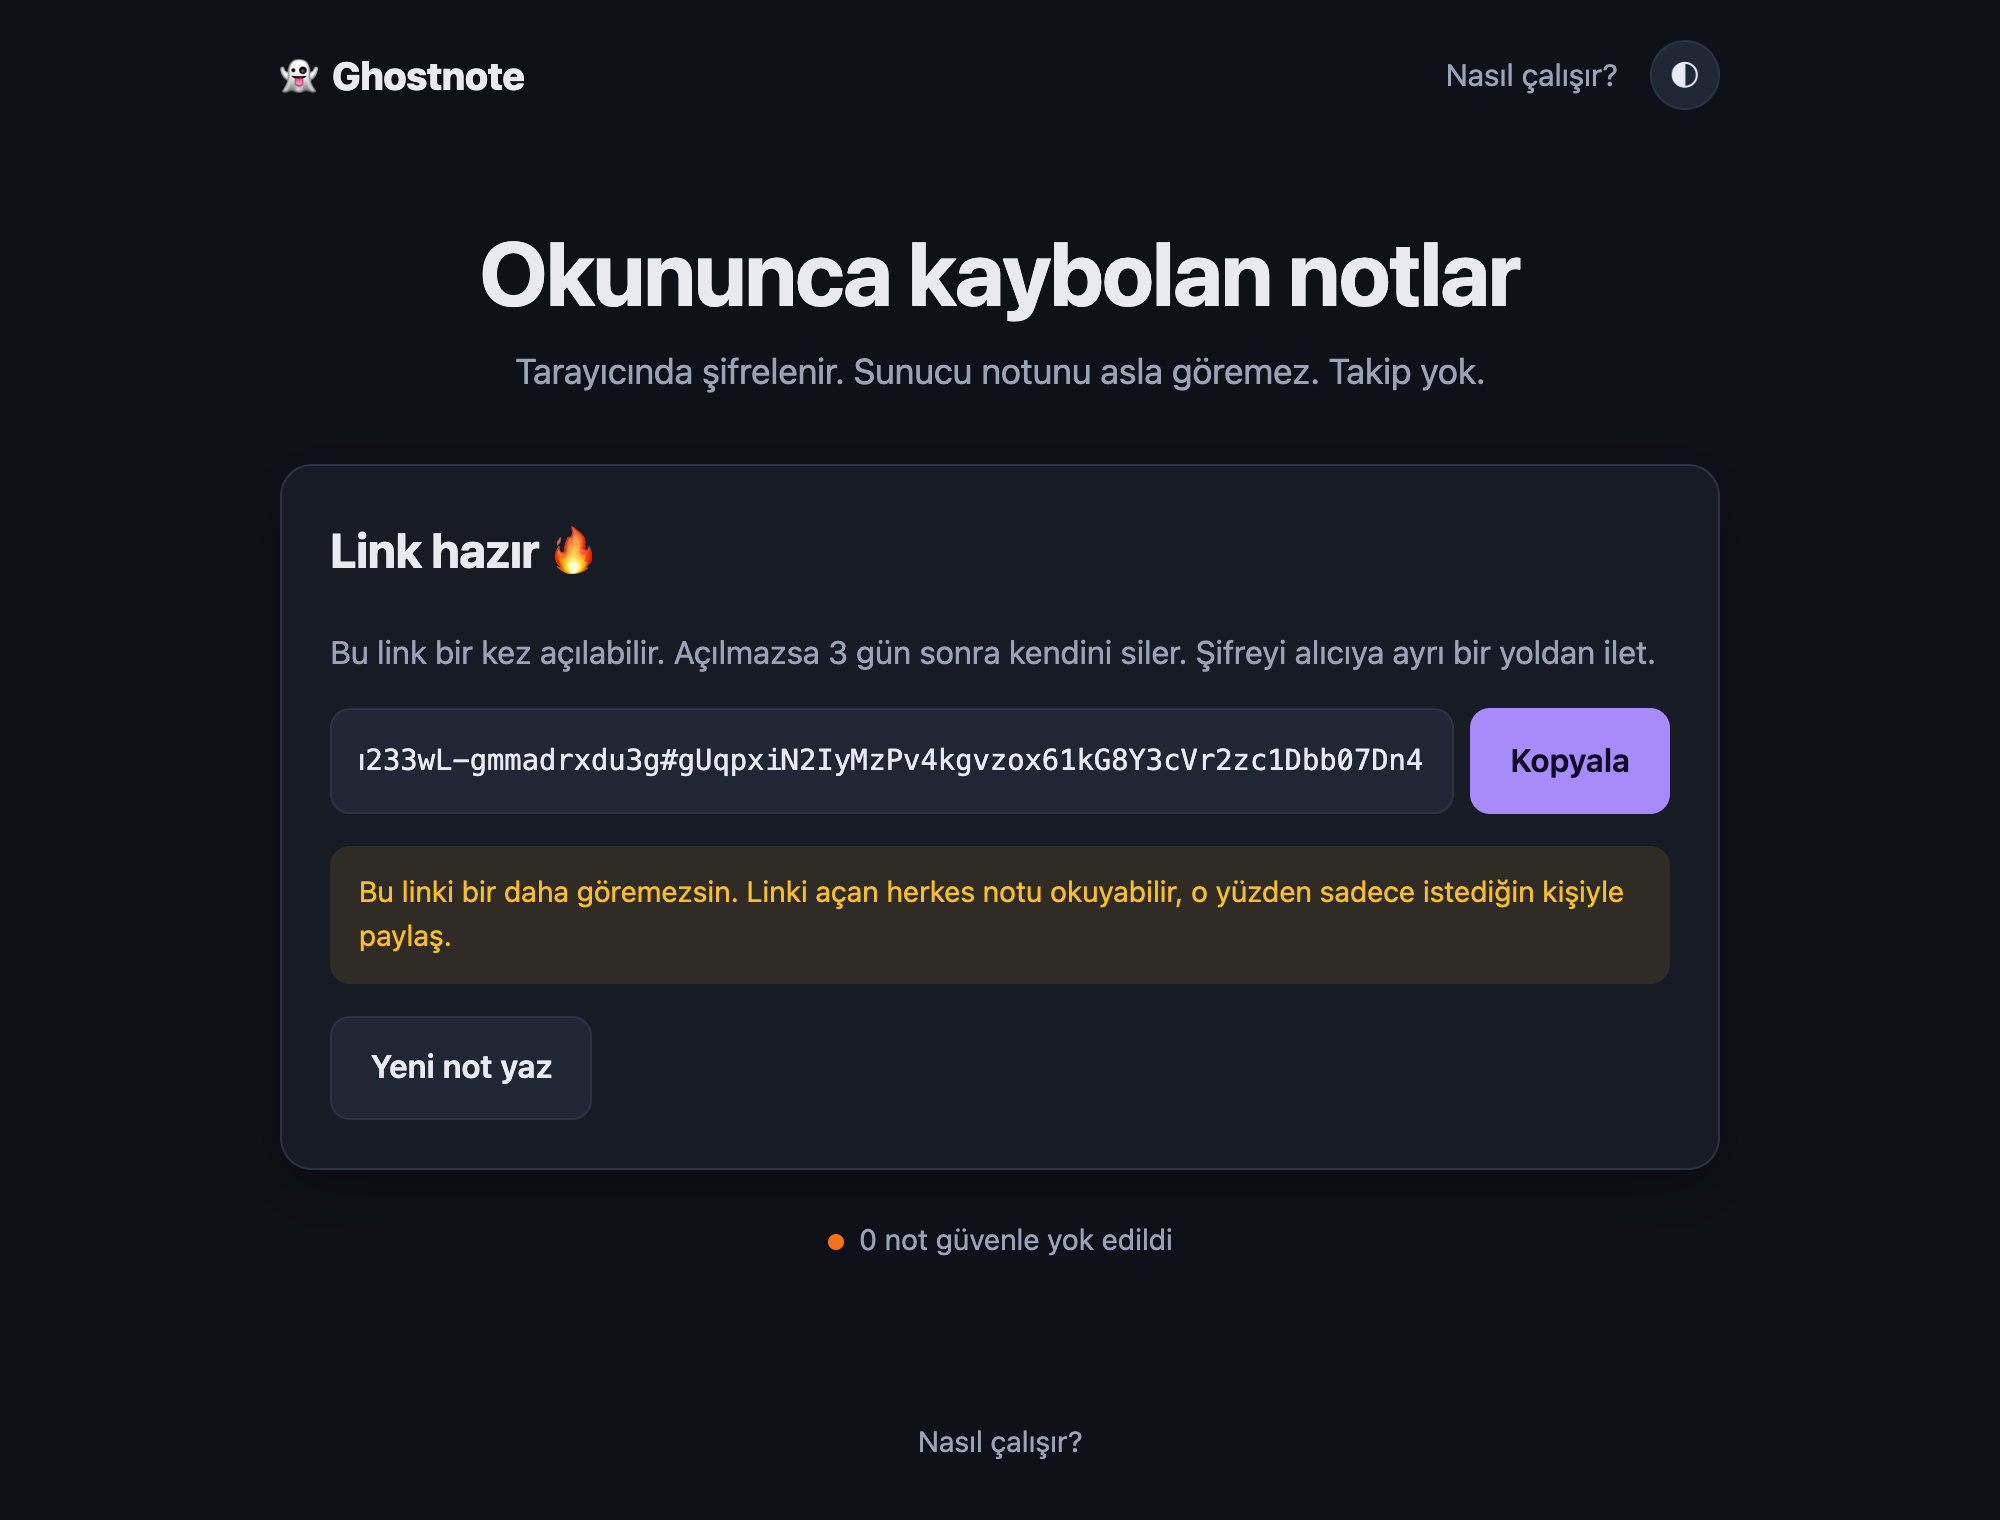
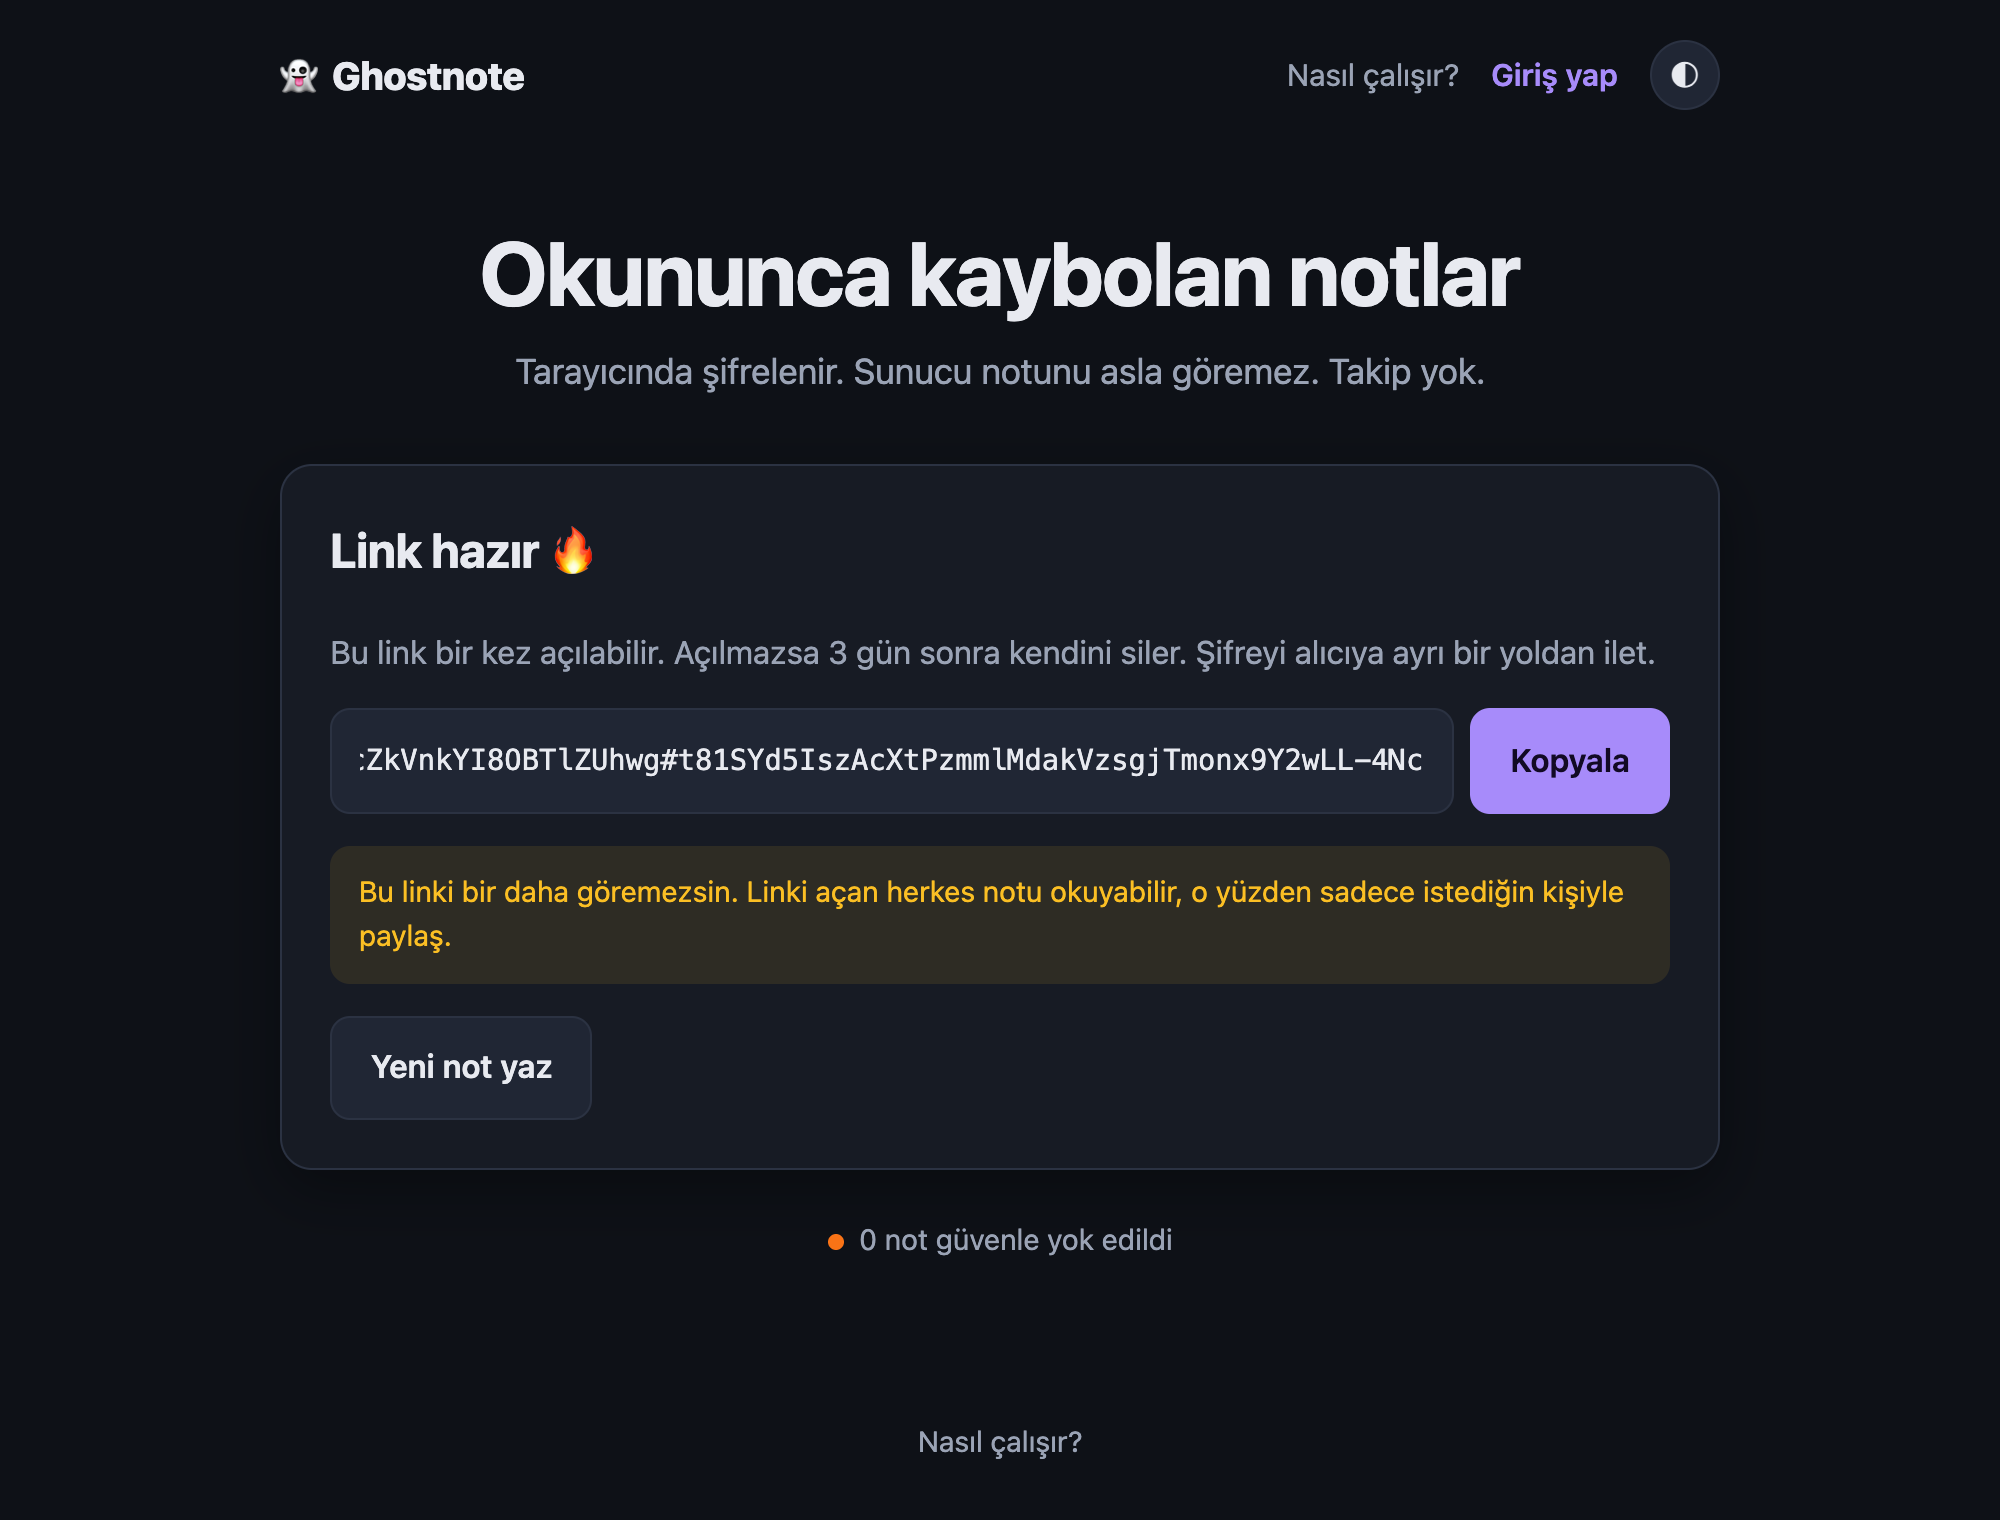
Add account screenshots to the README
Retake all screenshots so the header shows the new login link, and add
sign up, my notes and failed login to the walkthrough.

Changed region(s): [[0.341, 0.4947, 0.713, 0.5257], [0.651, 0.0309, 0.806, 0.0618], [0.186, 0.4947, 0.31, 0.5257]]

diff --git a/README.md b/README.md
@@ -42,9 +42,25 @@ sequenceDiagram
     M->>M: Decrypt with KEY from the link
 ```
 
+## Example: tracking notes with an account
+
+Accounts are optional. Ayşe creates one because she wants to know when her notes are read.
+
+**6. Ayşe signs up** with her email and a password of at least 8 characters.
+
+![Sign up](docs/screenshots/06-kayit-ol.png)
+
+**7. She checks Notlarım (my notes).** Every note she creates while signed in shows up here with its status: waiting, read (and when), deleted by her, or destroyed after 5 wrong passwords. She can still delete a note nobody has opened. The page never shows a note's content or link, only its status.
+
+![My notes](docs/screenshots/07-notlarim.png)
+
+**8. Wrong passwords are rejected.** The error is the same whether the email exists or not, so nobody can find out who has an account, and login attempts are rate limited.
+
+![Wrong login](docs/screenshots/08-giris-hatali.png)
+
 It also works on phones, in light and dark themes:
 
-<img src="docs/screenshots/06-mobil-acik-tema.png" alt="Mobile, light theme" width="300">
+<img src="docs/screenshots/09-mobil-acik-tema.png" alt="Mobile, light theme" width="300">
 
 ## Run it
 
